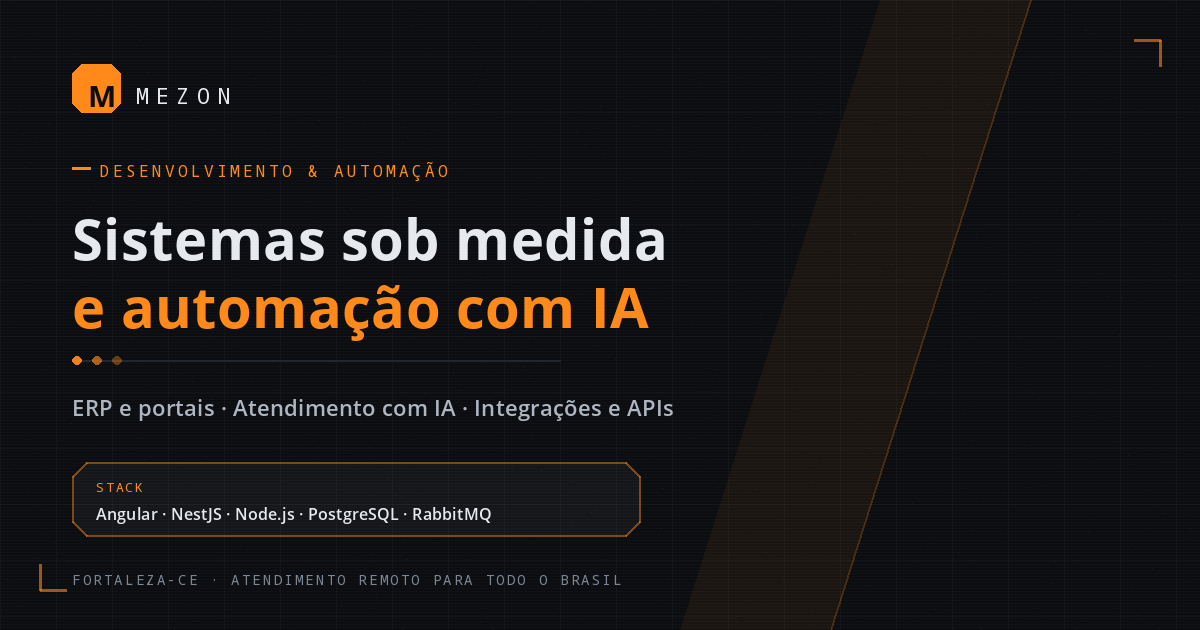
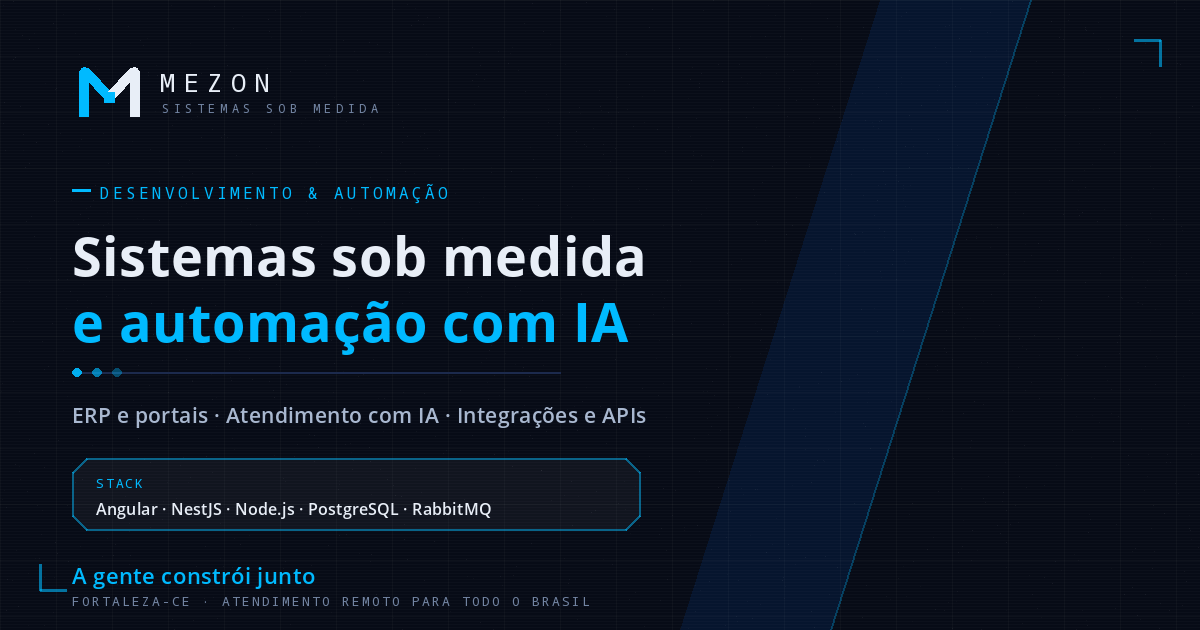
feat(marca): identidade própria, paleta azul da marca, descritor e tagline
O logo era um "M" dentro de um quadrado e a cor de destaque (âmbar sobre
preto) lia como games, não como tecnologia corporativa.

Marca
- símbolo "Trajetória": o M desenhado como caminho que entra à esquerda,
  muda de direção no vértice marcado e sai à direita — o dado atravessando
  o sistema. Grade de 120, ângulos a 45°, traço constante
- wordmark desenhado em paths geométricos (não é fonte): renderiza igual
  em qualquer máquina e o "O" repete o chanfro do design system
- kit em brand/: símbolo, lockup, versões mono e para fundo claro,
  lockup com descritor, favicon (contraforma sólida, legível em 16px)
- brand/README.md com conceito, zona de proteção, tamanhos mínimos,
  regras de contraste e o que não fazer

Paleta (Adobe Color, fornecida pelo cliente)
- #021757 #003698 #006DFF #00BAFF #98E9FD sobre base #070b16
- papéis definidos por contraste medido, não por gosto:
  #006DFF só em bloco sólido e SEMPRE com texto branco (4,53x) — reprova
  como texto pequeno sobre o fundo escuro (4,33x)
  #00BAFF para rótulos e linhas (8,86x como texto sobre escuro)
  #98E9FD para destaque de texto (14,42x)
- corrige os botões, que estavam com texto escuro herdado do âmbar e
  reprovariam em acessibilidade com o azul

Verbal
- descritor "Sistemas sob medida" junto ao logo: o nome é abstrato e não
  comunica o ramo
- tagline "A gente constrói junto" no site e no rodapé, fora do logo para
  não engessar a marca quando o discurso mudar

Também
[…]

diff --git a/src/styles/global.css b/src/styles/global.css
@@ -14,23 +14,25 @@
   --font-sans: "Inter", "Segoe UI", system-ui, -apple-system, sans-serif;
   --font-mono: "JetBrains Mono", ui-monospace, SFMono-Regular, Menlo, monospace;
 
-  /* superfícies */
-  --color-void:      #08090b;
-  --color-base:      #0b0d10;
-  --color-surface:   #101317;
-  --color-surface-2: #161a20;
-  --color-edge:      #23282f;
-  --color-edge-hot:  #3a3026;
+  /* superfícies — grafite azulado, derivado do navy da paleta */
+  --color-void:      #04070f;
+  --color-base:      #070b16;
+  --color-surface:   #0d1424;
+  --color-surface-2: #121b31;
+  --color-edge:      #1c2a4d;
+  --color-edge-hot:  #24407e;
 
-  /* destaque */
-  --color-amber:     #ff8a1a;
-  --color-amber-dim: #c26a12;
-  --color-amber-ink: #ffb765;
+  /* paleta da marca (Adobe Color) */
+  --color-navy:      #021757;
+  --color-deep:      #003698;
+  --color-primary:   #006dff;   /* blocos sólidos e CTA — SEMPRE com texto branco */
+  --color-accent:    #00baff;   /* rótulos, linhas, marcadores — texto sobre escuro */
+  --color-ice:       #98e9fd;   /* destaque de texto secundário */
 
   /* texto */
-  --color-ink:       #e6e9ee;
-  --color-ink-2:     #aeb6c2;
-  --color-ink-3:     #7d8794;
+  --color-ink:       #e8eef7;
+  --color-ink-2:     #a9b8d0;
+  --color-ink-3:     #7385a3;
 
   /* estado */
   --color-ok:        #46d39a;
@@ -52,10 +54,10 @@
     -webkit-font-smoothing: antialiased;
   }
 
-  ::selection { background: var(--color-amber); color: #0b0d10; }
+  ::selection { background: var(--color-primary); color: #ffffff; }
 
   :focus-visible {
-    outline: 2px solid var(--color-amber);
+    outline: 2px solid var(--color-accent);
     outline-offset: 3px;
   }
 
@@ -105,14 +107,14 @@
     background: var(--color-surface);
     height: 100%;
   }
-  .panel:hover { background: var(--color-amber-dim); }
-  .panel-hot { background: var(--color-amber); }
+  .panel:hover { background: var(--color-edge-hot); }
+  .panel-hot { background: var(--color-primary); }
 
   /* ---- cantos de mira ---- */
   .brackets { position: relative; }
   .brackets::before, .brackets::after {
     content: ""; position: absolute; width: 14px; height: 14px;
-    border-color: var(--color-amber); pointer-events: none;
+    border-color: var(--color-accent); pointer-events: none;
   }
   /* o chanfro fica em cima-esq e baixo-dir, então os brackets vão nos
      cantos retos (cima-dir e baixo-esq) para não colidir com o corte */
@@ -124,7 +126,7 @@
     display: flex; align-items: center; gap: .75rem;
     font-family: var(--font-mono);
     font-size: .72rem; letter-spacing: .22em; text-transform: uppercase;
-    color: var(--color-amber);
+    color: var(--color-accent);
   }
   .label::after {
     content: ""; height: 1px; flex: 1;
@@ -148,8 +150,8 @@
   }
   .btn:active { transform: translateY(1px); }
 
-  .btn-primary { background: var(--color-amber); color: #0b0d10; }
-  .btn-primary:hover { background: var(--color-amber-ink); }
+  .btn-primary { background: var(--color-primary); color: #ffffff; }
+  .btn-primary:hover { background: #2f89ff; }
 
   .btn-ghost {
     background: var(--color-edge); color: var(--color-ink);
@@ -165,12 +167,12 @@
     padding: calc(.95rem - 1px) calc(1.9rem - 1px);
     width: 100%; height: 100%;
   }
-  .btn-ghost:hover { background: var(--color-amber); }
-  .btn-ghost:hover > span { color: var(--color-amber-ink); }
+  .btn-ghost:hover { background: var(--color-accent); }
+  .btn-ghost:hover > span { color: var(--color-accent); }
 
   /* ---- régua com marcadores ---- */
   .rule { display: flex; align-items: center; gap: 6px; }
-  .rule i { width: 9px; height: 6px; background: var(--color-amber); display: block; }
+  .rule i { width: 9px; height: 6px; background: var(--color-accent); display: block; }
   .rule i:nth-child(2) { opacity: .65; }
   .rule i:nth-child(3) { opacity: .35; }
   .rule::after {
@@ -197,7 +199,7 @@
   .field::placeholder { color: var(--color-ink-3); }
   .field:focus {
     outline: none;
-    border-color: var(--color-amber);
+    border-color: var(--color-accent);
     background: #0a0c0f;
   }
   .field-label {

diff --git a/brand/_preview.html b/brand/_preview.html
@@ -1,0 +1,26 @@
+<!doctype html><meta charset="utf-8">
+<style>
+ body{background:#0b0d10;color:#e6e9ee;font:400 13px system-ui;margin:0;padding:36px}
+ h2{font:600 12px/1 ui-monospace,monospace;letter-spacing:.2em;text-transform:uppercase;color:#ff8a1a;margin:26px 0 12px}
+ .b{background:#101317;border:1px solid #23282f;padding:22px;display:inline-block;margin:0 12px 12px 0}
+ .lt{background:#e6e9ee;border-color:#c9ced6}
+ .cap{font:500 10px ui-monospace,monospace;color:#5f6875;margin-top:8px;letter-spacing:.08em}
+ img{display:block}
+</style><body>
+<h2>Lockup principal</h2>
+<div class="b"><img src="mezon-lockup.svg" width="330"><div class="cap">MEZON-LOCKUP.SVG</div></div>
+<div class="b lt"><img src="mezon-lockup-fundo-claro.svg" width="330"><div class="cap" style="color:#6b7280">FUNDO CLARO</div></div>
+<h2>Monocromático</h2>
+<div class="b"><img src="mezon-lockup-mono-claro.svg" width="280"><div class="cap">1 COR / ESCURO</div></div>
+<div class="b lt"><img src="mezon-lockup-mono-escuro.svg" width="280"><div class="cap" style="color:#6b7280">1 COR / CLARO</div></div>
+<h2>Símbolo</h2>
+<div class="b"><img src="mezon-simbolo.svg" width="84"><div class="cap">84PX</div></div>
+<div class="b"><img src="mezon-simbolo.svg" width="40"><div class="cap">40PX</div></div>
+<div class="b"><img src="mezon-simbolo.svg" width="24"><div class="cap">24PX</div></div>
+<div class="b lt"><img src="mezon-simbolo-fundo-claro.svg" width="84"><div class="cap" style="color:#6b7280">CLARO</div></div>
+<div class="b"><img src="mezon-simbolo-mono-claro.svg" width="84"><div class="cap">MONO</div></div>
+<h2>Favicon</h2>
+<div class="b"><img src="mezon-favicon.svg" width="64"><div class="cap">64PX</div></div>
+<div class="b"><img src="mezon-favicon.svg" width="32"><div class="cap">32PX</div></div>
+<div class="b"><img src="mezon-favicon.svg" width="16"><div class="cap">16PX</div></div>
+</body>

diff --git a/brand/README.md b/brand/README.md
@@ -1,0 +1,85 @@
+# Identidade visual — Mezon
+
+## Conceito
+
+O símbolo é uma **trajetória**: entra por baixo à esquerda em âmbar, muda de direção
+no vértice marcado e sai à direita em claro. É o dado atravessando o sistema — a
+Mezon como o trecho que conecta uma ponta à outra. A forma resultante lê como "M".
+
+O nome também sustenta a leitura: **méson** é a partícula que medeia a força entre
+outras partículas. Mediação é o negócio da empresa.
+
+## Verbal
+
+**Descritor:** `Sistemas sob medida`
+Anda colado ao logo. O nome "Mezon" é abstrato e não comunica o ramo — o descritor
+resolve isso em meio segundo para quem nunca ouviu falar da empresa. Linguagem de
+alfaiataria, que dono de empresa entende sem saber nada de tecnologia.
+
+**Tagline:** `A gente constrói junto`
+Não faz parte do logo. Vive no site, na proposta, na assinatura e em campanha.
+Comunica parceria e acompanhamento — o oposto do fornecedor que entrega e some.
+Como ela não diz o que a empresa faz, **nunca use a tagline sozinha em contexto
+onde a pessoa não sabe o que é a Mezon**: nesses casos, use o lockup com descritor.
+
+Regra prática: descritor informa, tagline dá o tom. Não use os dois na mesma linha.
+
+## Arquivos
+
+| Arquivo | Uso |
+|---|---|
+| `mezon-lockup.svg` | Principal. Fundo escuro. |
+| `mezon-lockup-fundo-claro.svg` | Fundo claro. |
+| `mezon-lockup-mono-claro.svg` | Uma cor sobre fundo escuro. |
+| `mezon-lockup-mono-escuro.svg` | Uma cor sobre fundo claro. |
+| `mezon-simbolo.svg` | Símbolo isolado (avatar, app, selo). |
+| `mezon-simbolo-fundo-claro.svg` | Símbolo em fundo claro. |
+| `mezon-simbolo-mono-*.svg` | Gravação, carimbo, bordado, fax, patrocínio. |
+| `mezon-favicon.svg` | Favicon e usos abaixo de 24px. |
+| `mezon-lockup-descritor.svg` | Com "Sistemas sob medida". Use quando o público não conhece a marca. |
+| `mezon-lockup-descritor-fundo-claro.svg` | Idem, fundo claro. |
+
+O wordmark é **desenhado**, não digitado: as letras são paths geométricos com o mesmo
+traço do símbolo, e o "O" repete o chanfro do design system. Por isso não depende de
+nenhuma fonte instalada e renderiza igual em qualquer máquina.
+
+## Regras
+
+**Zona de proteção** — margem livre em todos os lados igual à altura do quadrado
+marcador do símbolo. Nada invade: nem texto, nem borda, nem imagem.
+
+**Tamanho mínimo** — lockup simples: 120px de largura. Lockup com descritor: 220px
+(abaixo disso o descritor fica ilegível — troque pela versão sem descritor).
+Símbolo: 24px. Abaixo de 24px use `mezon-favicon.svg`, que é massa sólida.
+
+**Cores** (paleta Adobe Color da marca)
+
+| Hex | Papel | Regra de contraste |
+|---|---|---|
+| `#021757` | Navy — superfície de ênfase | texto branco |
+| `#003698` | Azul profundo — blocos | texto branco |
+| `#006DFF` | Primária — CTA e blocos sólidos | **sempre texto branco** (4,53x). Não use para texto pequeno |
+| `#00BAFF` | Acento — rótulos, linhas, logo | ótima como texto sobre escuro (8,86x); como fundo pede texto escuro |
+| `#98E9FD` | Gelo — destaque de texto | 14,42x sobre fundo escuro |
+
+Fundo do site: `#070b16` (grafite azulado derivado do navy).
+
+**Fundo** — sobre foto ou padrão, use a versão monocromática, sempre com contraste
+suficiente. Nunca aplique o lockup colorido sobre fundo de baixo contraste.
+
+## Não faça
+
+- Não recomponha o lockup (mudar distância entre símbolo e wordmark)
+- Não troque as cores nem inverta âmbar e claro
+- Não aplique sombra, gradiente, contorno ou brilho
+- Não distorça: escale sempre proporcionalmente
+- Não gire o símbolo
+- Não redesenhe o wordmark com fonte — use o SVG
+- Não coloque a tagline dentro do lockup nem junto do descritor
+- Não use o lockup com descritor abaixo de 220px
+
+## Onde já está aplicado
+
+- `public/favicon.svg` — conceito favicon
+- `src/layouts/Layout.astro` — header e footer (SVG inline, herda `currentColor`)
+- `public/og-mezon.png` — imagem de compartilhamento
